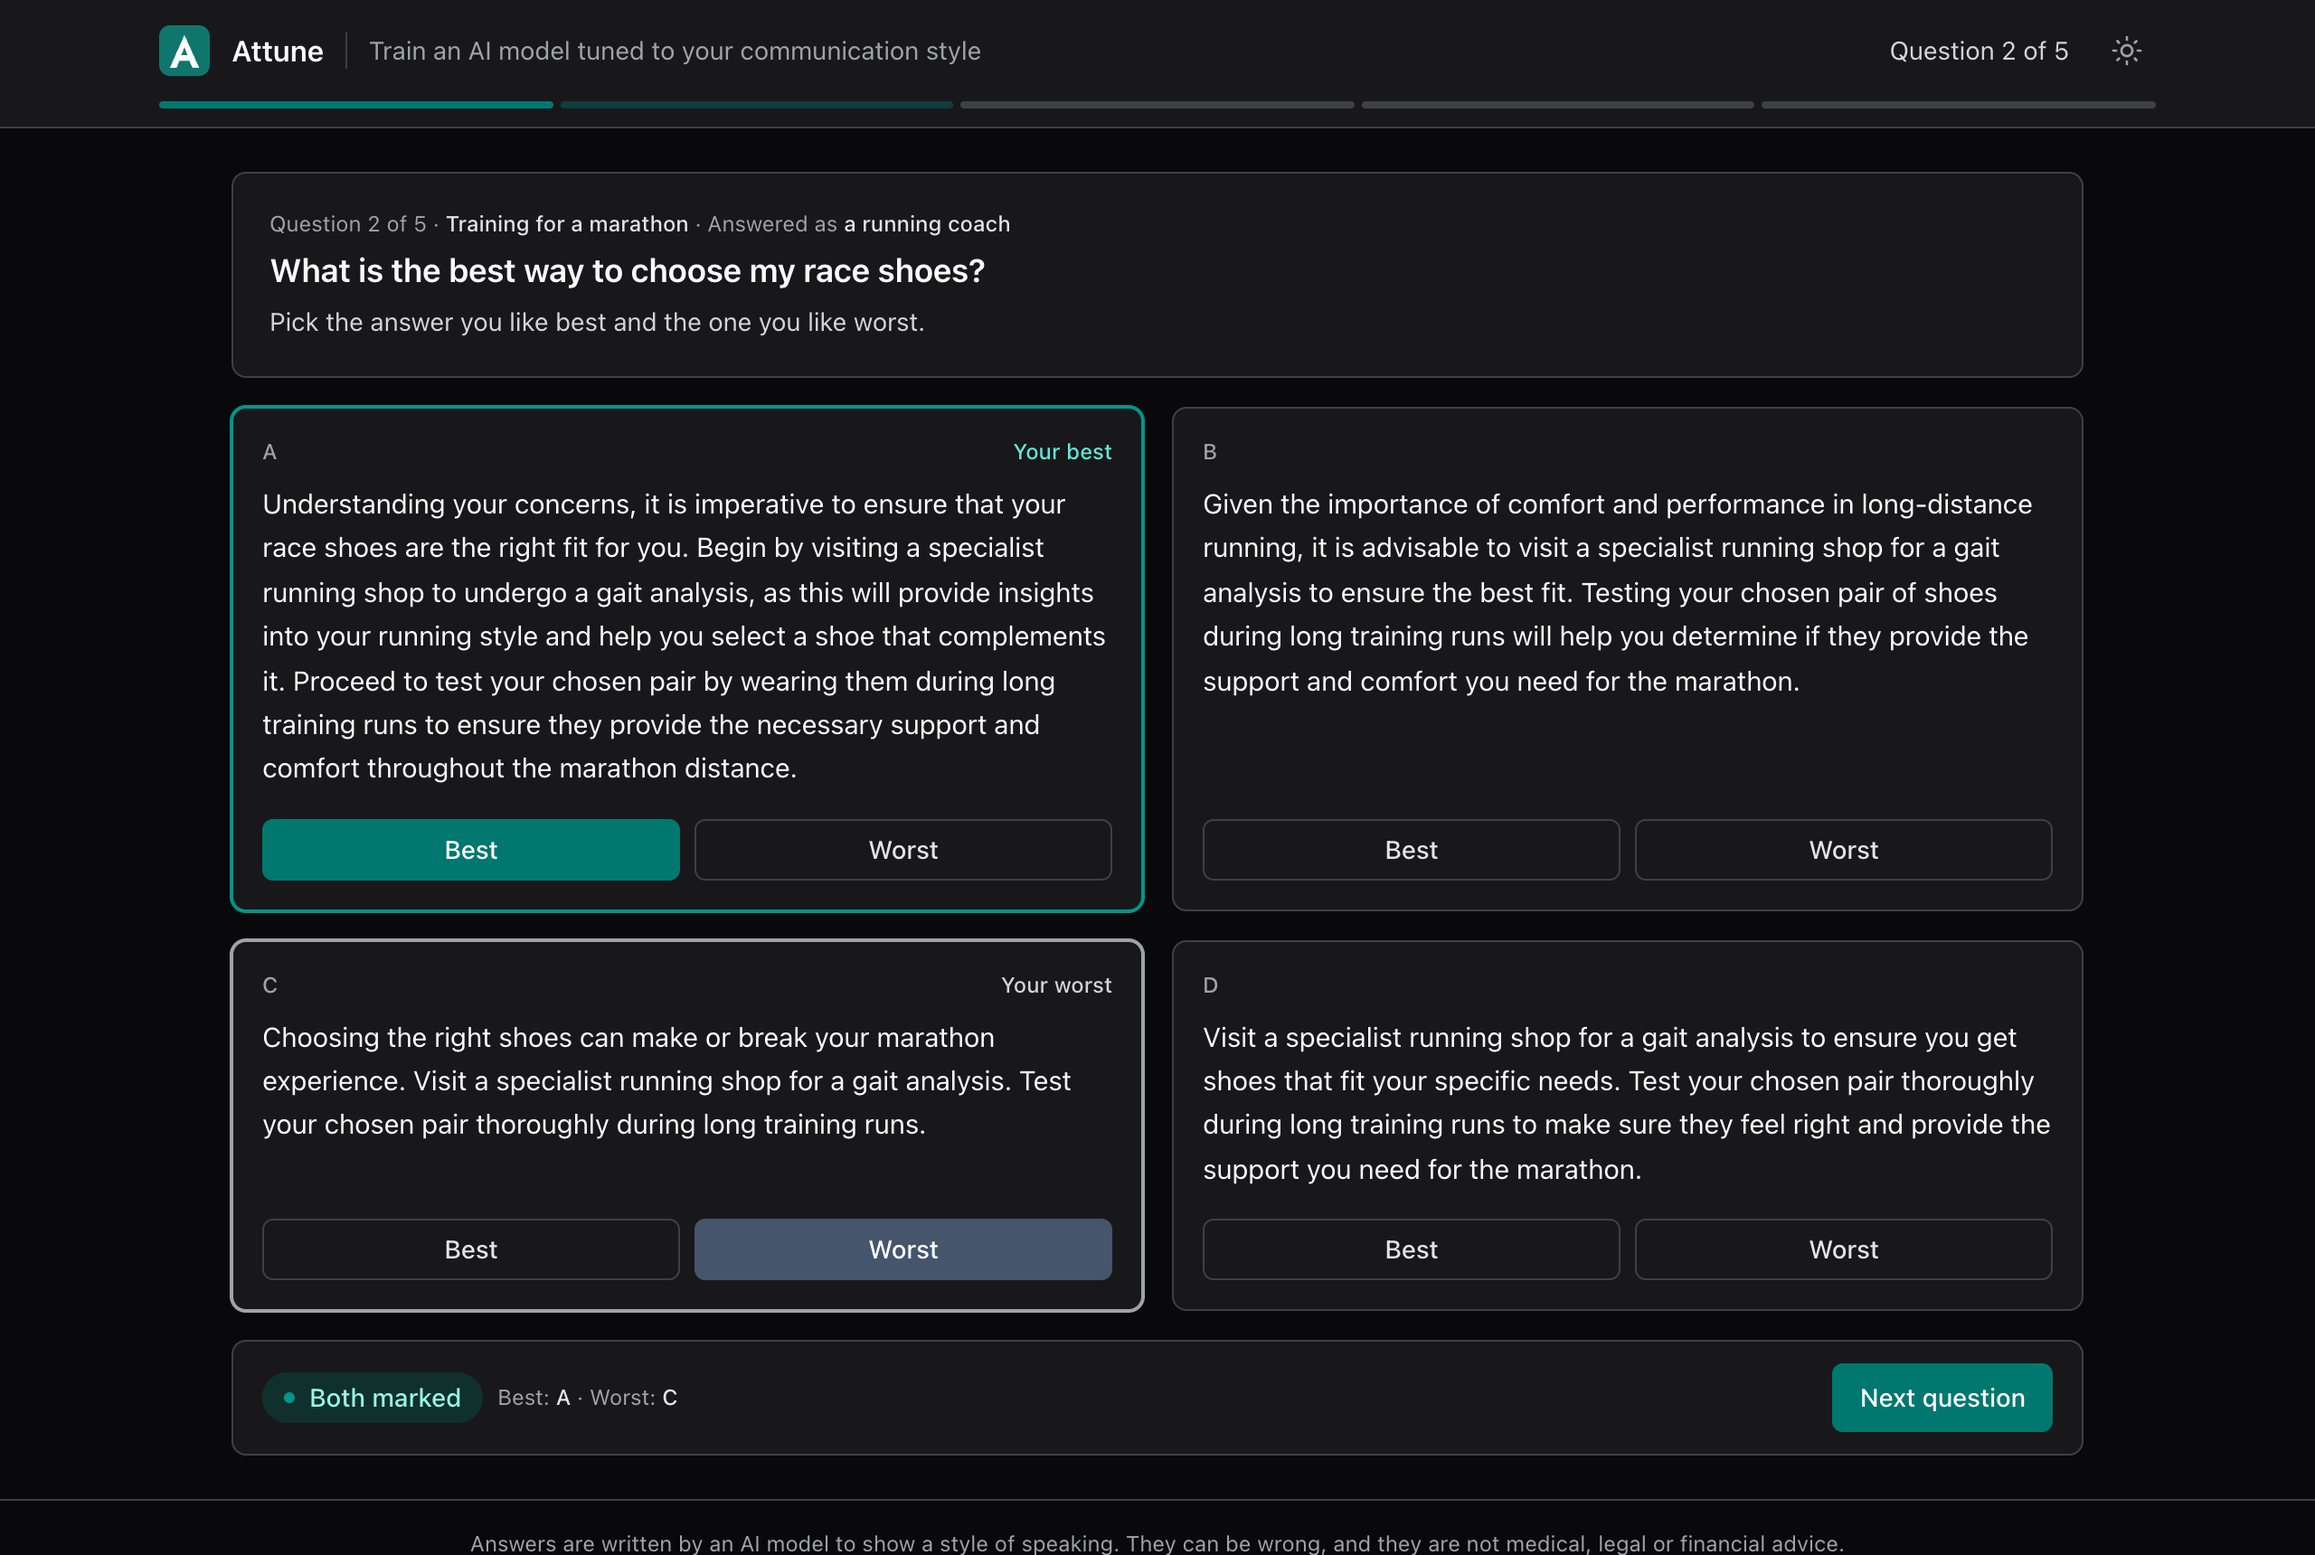
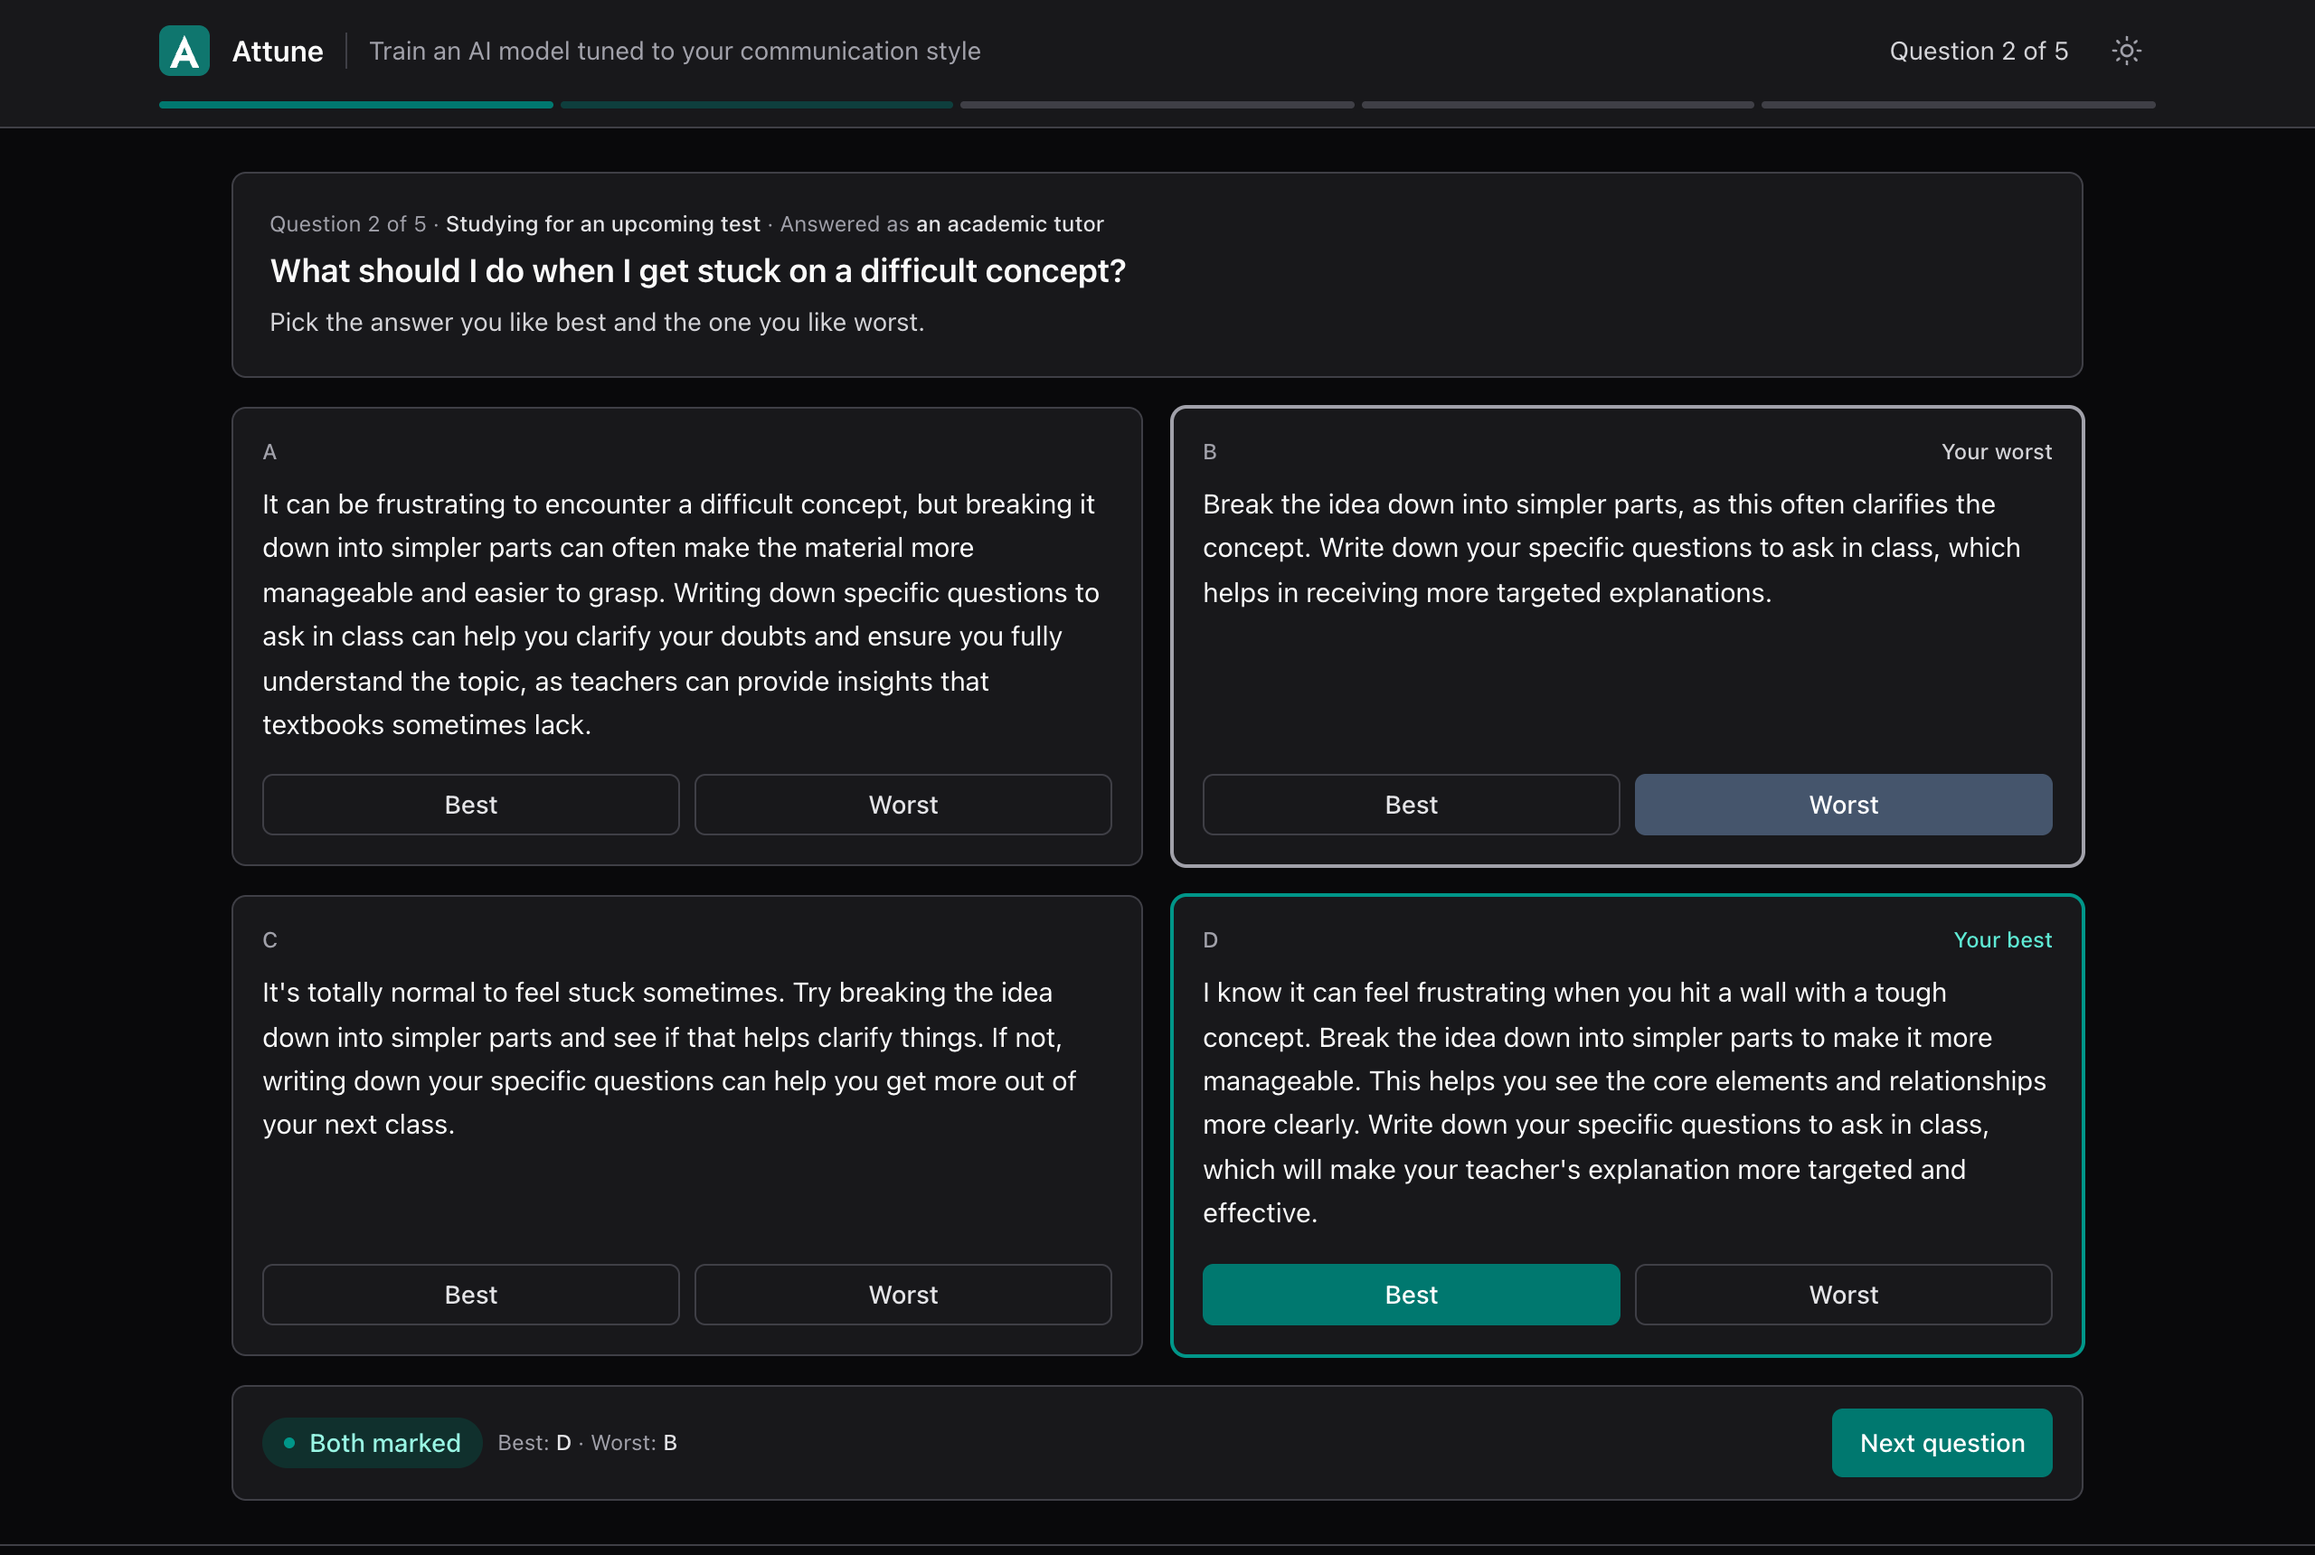
README screenshots from a tutor session; a repeated answer that survives two redraws gets two more, in the style furthest from the one it repeats

Changed region(s): [[0.0938, 0.2773, 0.9062, 0.9552], [0.1875, 0.986, 0.8125, 1.0], [0.1562, 0.1233, 0.5, 0.1849]]

diff --git a/bench/run.py b/bench/run.py
@@ -232,10 +232,16 @@ class Session:
                     answers[j], texts[j] = o, t
         if getattr(a, "no_duplicates", False):
             # Two identical answers cannot be told apart, and marking one best and the other worst
-            # would contradict itself: redraw the later one, twice at most.
-            for _ in range(2):
+            # would contradict itself: redraw the later one, twice. If a repeat survives that (a short
+            # fact sheet can come out word for word in two plain styles), try twice more in the style
+            # furthest from the answer it repeats: first among styles still two axes from the other
+            # answers, then among all the styles not shown.
+            for attempt in range(5):
                 same = [j for j in range(a.k) if any(alike(texts[j], texts[i]) for i in range(j))]
-                if not same:
+                if attempt > 2 or attempt == 2 and same:   # the two usual redraws were not enough
+                    print(f"repeated answer after two redraws: {'still shown' if same else 'cleared'} "
+                          f"at attempt {attempt}", flush=True)
+                if not same or attempt == 4:
                     break
                 before = {j: picks[j] for j in same}
                 if self.latent:
@@ -243,7 +249,16 @@ class Session:
                     # repeat to a style that differs from every other one shown on two axes or more.
                     for j in same:
                         others = [s for i, s in enumerate(picks) if i != j]
-                        far = [s for s in range(len(STYLES)) if all(style_distance(s, t) >= 2 for t in others)]
+                        if attempt < 2:
+                            far = [s for s in range(len(STYLES)) if all(style_distance(s, t) >= 2 for t in others)]
+                        else:
+                            twins = [picks[i] for i in range(j) if alike(texts[j], texts[i])]
+                            rest = [t for t in others if t not in twins]
+                            unshown = [s for s in range(len(STYLES)) if s not in picks]
+                            apart = [s for s in unshown if all(style_distance(s, t) >= 2 for t in rest)]
+                            pool = apart if attempt == 2 and apart else unshown
+                            reach = {s: min(style_distance(s, t) for t in twins) for s in pool}
+                            far = [s for s in pool if reach[s] == max(reach.values())]
                         if far:
                             picks[j] = rng.choice(far)
                 fresh, fresh_texts = draw(same)

diff --git a/README.md b/README.md
@@ -4,7 +4,7 @@ Attune fine-tunes a 7B language model live on one person's feedback, so it learn
 
 <picture>
   <source media="(prefers-color-scheme: dark)" srcset="docs/screenshot-round-dark.png">
-  <img alt="A training round: four answers to &quot;What is the best way to choose my race shoes?&quot; from a running coach, each in a different style, with one marked best and one marked worst" src="docs/screenshot-round-light.png">
+  <img alt="A training round: four answers to &quot;What should I do when I get stuck on a difficult concept?&quot; from a tutor, each in a different style, with one marked best and one marked worst" src="docs/screenshot-round-light.png">
 </picture>
 
 ## Features
